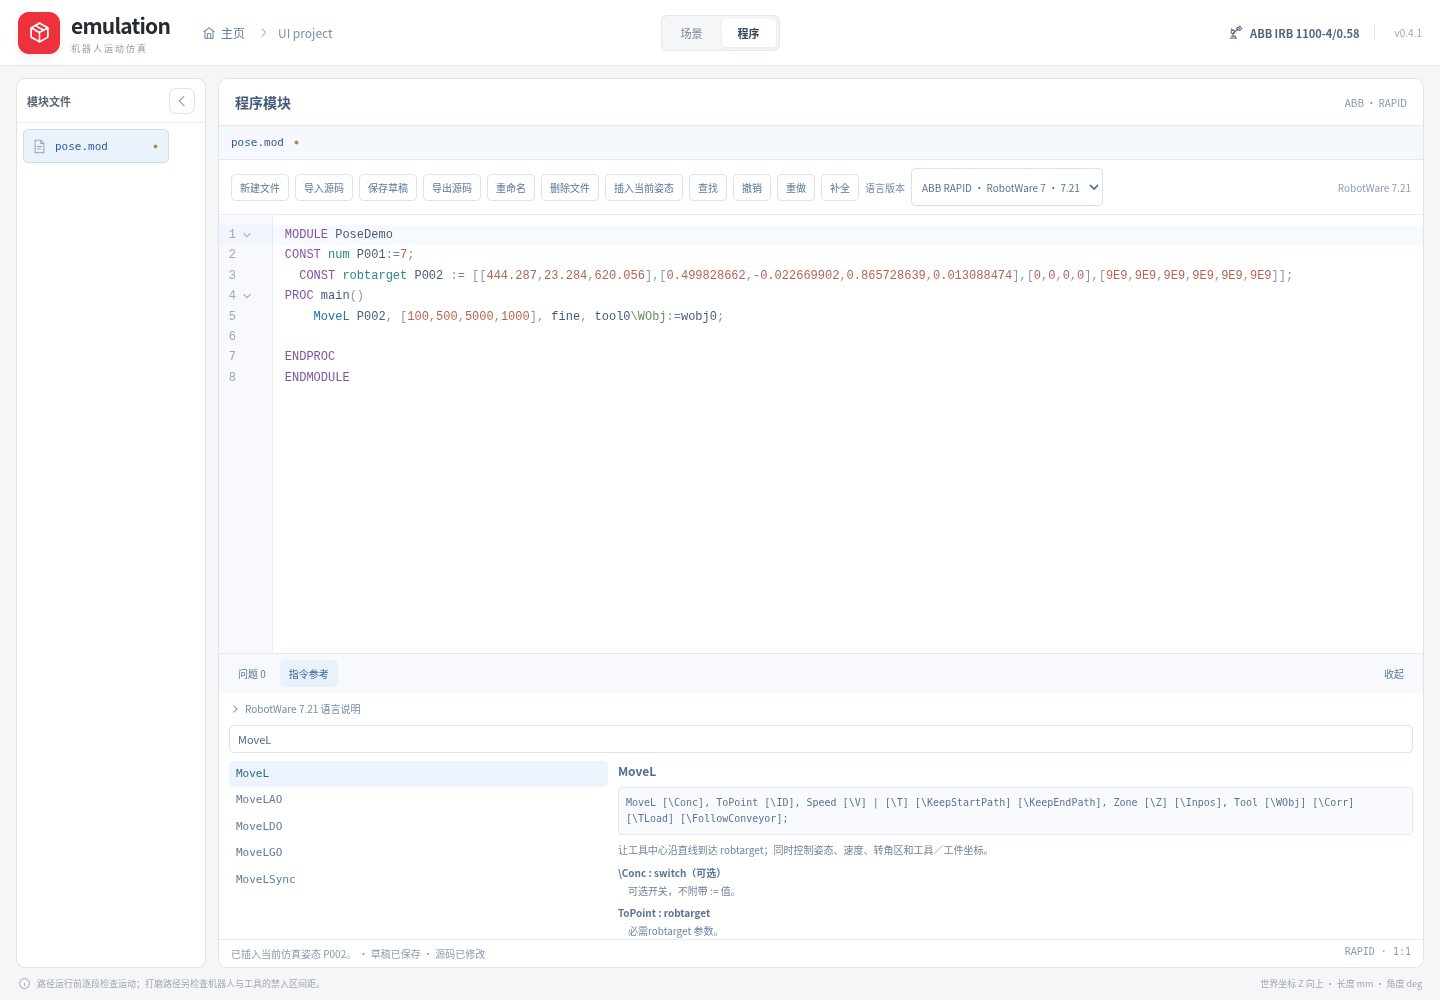
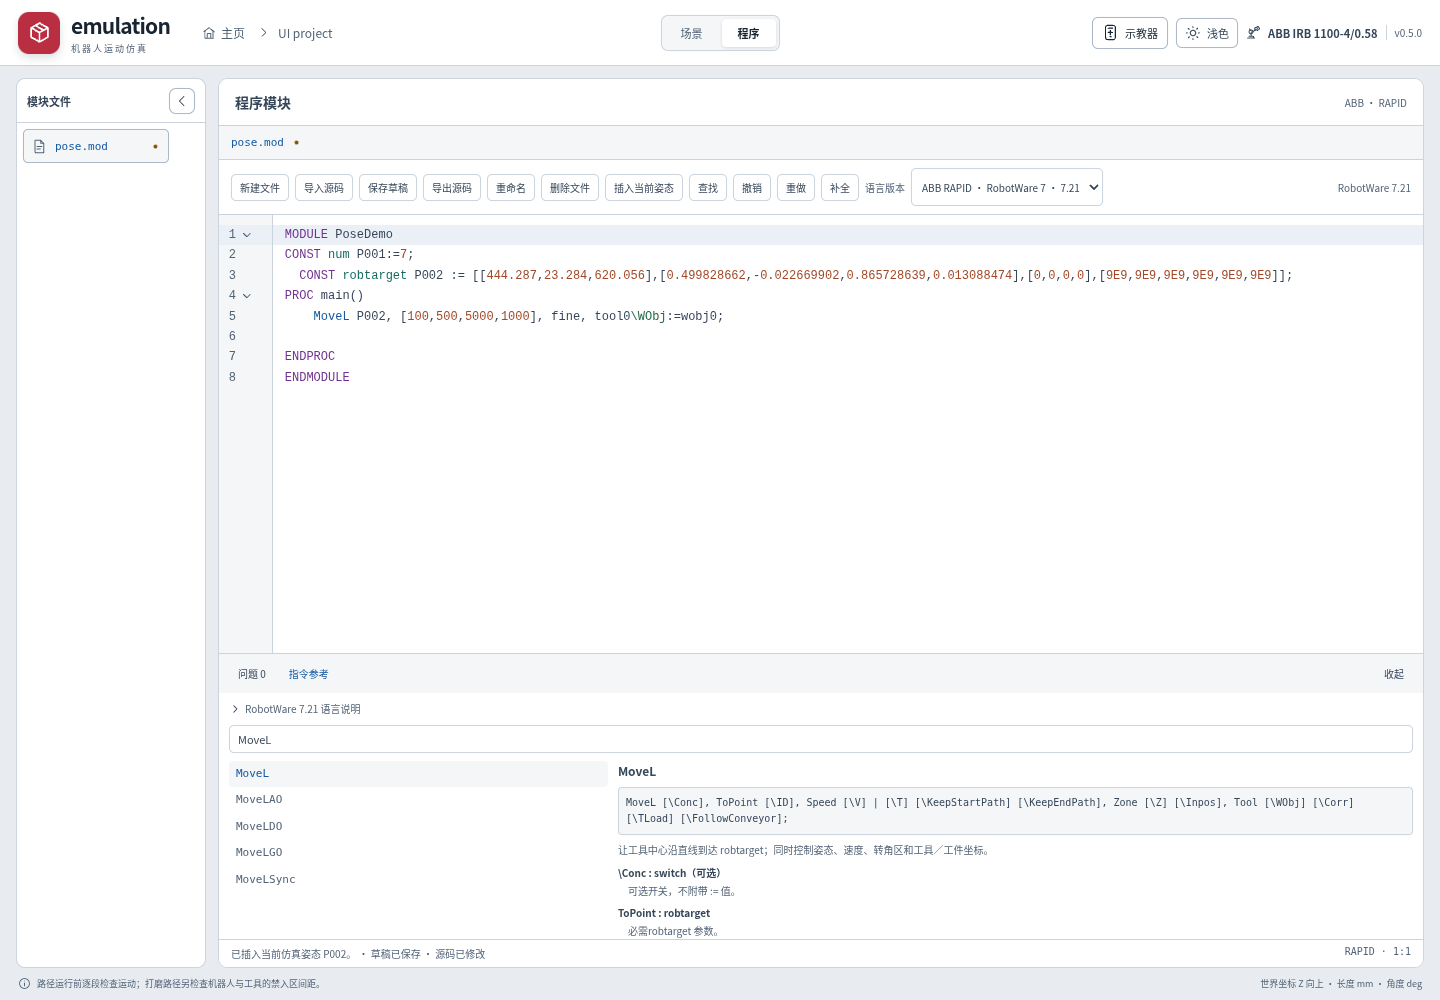
test: drive loop playback with deterministic animation frames

diff --git a/tests/ui/program-run.spec.ts b/tests/ui/program-run.spec.ts
@@ -2,7 +2,7 @@ import { expect, test, type Page } from '@playwright/test';
 import { prepareCatalogFixtures, readCatalog } from './catalog-fixtures';
 import { generateSource, openCode } from './programming-helpers';
 import type { Pose } from '../../src/robot/types';
-import { bodyCanvas, bodyJoints, bodyPose, captureCurrent, createPath, expectBodyJoints, expectNoPointMotionActions, runPathFromMenu, selectPathForPoints, observeBrowser, openScene, openWorkspace, pathObjects, pathPoints, selectPath, selectRobot, selectRobotObject, setJoint, type CapturedPoint } from './workspace-helpers';
+import { bodyCanvas, bodyJoints, bodyPose, captureCurrent, createPath, expectBodyJoints, expectNoPointMotionActions, openPathMenu, runPathFromMenu, selectPathForPoints, observeBrowser, openScene, openWorkspace, pathObjects, pathPoints, selectPath, selectRobot, selectRobotObject, setJoint, type CapturedPoint } from './workspace-helpers';
 
 test.setTimeout(120_000);
 const ready = [0, 20, -30, 0, 40, 0];
@@ -134,8 +134,22 @@ test('Loop closes from the last point to the first without replaying approach an
   const first = await recordJoint1(page, 2), second = await recordJoint1(page, 4);
   await setJoint(page, 1, 0);
   await expectBodyJoints(page, ready);
-  await run(page, true);
-  await expect(runState(page)).toHaveAttribute('data-run-phase', 'running', { timeout: 20_000 });
+  await selectPath(page, first.pathId);
+  await page.getByRole('checkbox', { name: '循环运行', exact: true }).check();
+  const runMenu = await openPathMenu(page, first.pathId, true);
+  await expect(runMenu.getByRole('menuitem', { name: '运行', exact: true })).toBeEnabled();
+  // Pause while idle: the clock's initial jump must not skip any playback.
+  // Once Run is pressed, drive actual RAF/React frames explicitly instead of
+  // requiring the emulated clock to keep up with wall time on a slow CI GPU.
+  await page.clock.pauseAt(new Date(await page.evaluate(() => Date.now()) + 10_000));
+  await startSampling(page);
+  await runMenu.getByRole('menuitem', { name: '运行', exact: true }).press('Enter');
+  await expect(runMenu).toHaveCount(0);
+  await expect(runState(page)).toHaveAttribute('data-run-path-id', first.pathId);
+  await expect.poll(async () => {
+    await page.clock.runFor(16);
+    return runState(page).getAttribute('data-run-phase');
+  }, { timeout: 20_000 }).toBe('running');
   // Keep a real UI selection while the clock drives continuous scene frames.
   // Pointer actionability can stall waiting for stable animation frames here.
   const activePath = page.locator(`[data-object-kind="path"][data-object-id="${first.pathId}"]`);
@@ -157,12 +171,15 @@ test('Loop closes from the last point to the first without replaying approach an
   await pathPoints(page, first.pathId).first().focus();
   await page.keyboard.press('Delete');
   await expect(pathPoints(page, first.pathId)).toHaveCount(2);
-  await expect.poll(async () => Number(await runState(page).getAttribute('data-run-cycle')), { timeout: 25_000 }).toBeGreaterThanOrEqual(2);
-  // The first two cycles above use wall time. Freeze only the Stop observation
-  // window: a real mouse click's actionability wait can consume this short leg.
+  // This 2-degree, 10 mm/s fixture reaches cycle 2 in about six simulated
+  // seconds. Bound virtual progress while delivering every animation frame.
+  for (let index = 0; index < 100 && Number(await runState(page).getAttribute('data-run-cycle')) < 2; index++) {
+    await page.clock.runFor(100);
+  }
+  expect(Number(await runState(page).getAttribute('data-run-cycle'))).toBeGreaterThanOrEqual(2);
+  // Keep the same paused clock through Stop; keyboard input cannot consume the
+  // short intermediate-pose window through pointer actionability waits.
   await stopButton(page).focus();
-  await page.clock.pauseAt(new Date(await page.evaluate(() => Date.now()) + 10_000));
-  await page.clock.runFor(32); // Let React and the scene both observe the clock transition.
   for (let index = 0; index < 40; index++) {
     const q = (await bodyJoints(page))[0];
     if (q > 2.5 && q < 3.5) break;
@@ -174,6 +191,9 @@ test('Loop closes from the last point to the first without replaying approach an
   await page.clock.resume();
   const repeated = (await stopSampling(page)).filter(sample => sample.phase === 'running' && sample.cycle >= 1);
   expect(repeated.length).toBeGreaterThan(0);
+  const firstCycleOrder = repeated.filter(sample => sample.cycle === 1).map(sample => sample.pointId)
+    .filter((id, index, ids) => index === 0 || id !== ids[index - 1]);
+  expect(firstCycleOrder).toEqual([first.id, second.id]);
   expect(new Set(repeated.map(sample => sample.pointId))).toEqual(new Set([first.id, second.id]));
   for (const sample of repeated) {
     expect(sample.joints[0]).toBeGreaterThanOrEqual(2 - .001);

diff --git a/history/2026-11-11-001.md b/history/2026-11-11-001.md
@@ -49,3 +49,26 @@
 - 最终手机资源重新嵌入Rust测试工具后，真实WebSocket／手机页面再测1项通过（6.6秒），覆盖实际消息、心跳失联、重新操作和关闭停止；与此前4项手机界面用例共同构成11项定向UI场景，未把两次同一网络用例重复计数。
 - 新增安装后ABB与GP7通过真实WebSocket、Tauri事件、原生Jog到界面更新的smoke代码，等待macOS／Windows正式构建执行；未提前声称已经实装验证。
 - 本次尚未收到新版本发布要求，保持当前发布v0.5.0与下载入口不变，准备英文功能提交及PR。临时最终日志：/tmp/emulation-pendant-final-unit.log、/tmp/emulation-pendant-final-build.log、/tmp/emulation-pendant-final-native-phone.log。
+
+### A5 · PR与原生验证启动
+
+- 英文提交[`253a6a4`](https://github.com/ecojust/emulation/commit/253a6a4f5c272ef33f196540087fb2984f81cbdb)已推送功能分支，创建[PR #12](https://github.com/ecojust/emulation/pull/12)，未合并／发布。
+- 同源[Check42932725440](https://github.com/ecojust/emulation/actions/runs/42932725440)和[Desktop42932725643](https://github.com/ecojust/emulation/actions/runs/42932725643)运行中。后者包含安装后实际WebSocket→Tauri事件→RustJog→ABB／GP7界面运动的新增验收；任何失败须定位修复后重验。
+
+### A6 · ARM与Windows安装后验证
+
+- Desktop42932725643中[macOS Apple Silicon job130235195626](https://github.com/ecojust/emulation/actions/runs/42932725643/job/130235195626)和[Windows x64 job130235195968](https://github.com/ecojust/emulation/actions/runs/42932725643/job/130235195968)均已完成success，源提交为253a6a4。两平台安装后新增示教器链路检查均通过；不是仅检查构建产物存在。
+- Check的数值、类型、构建步骤已通过，完整界面回归仍运行中；Intel仍在构建。本阶段保持PR开放，未合并／发布。
+
+### A7 · 完整回归中的循环计时失败
+
+- Desktop日志已取得：ARM与Windows的`pendant:abb`及`pendant:yaskawa-gp7`均记录真实套接字输入、轴移动3°、直线移动10mm、松手及断连停止。Intel在原有`bundled-model`阶段因托管显卡不能提供WebGL2失败，尚未进入示教器步骤，不能算作图形验收通过。临时原始日志：/tmp/emulation-pr12-desktop-logs.zip。
+- Check42932725440最终失败：172Rust／1496TS及生产构建通过；完整开发UI63通过、1失败、1生产专用跳过（18.2分钟）。唯一失败为既有`program-run.spec.ts`循环运行用例等待第二圈25秒超时，实际已到第一圈；后续8项生产UI因此未执行。正在定位，不将此run记为完整通过。临时原始日志：/tmp/emulation-pr12-check-logs.zip。
+- 独立review继续检查循环测试与播放时钟；root冻结源码，补跑被跳过的生产UI。后续修正须保留真实循环与中途停止验证，不能降低断言绕过失败。
+
+### A8 · 确定性循环测试与生产补验
+
+- 确认产品`runPath`／`sampleProgramRun`播放逻辑未变；原测试安装了模拟RAF时钟，却要求它在25秒真实时间内到第二圈，软件WebGL回调较慢时两种时钟失配。仅修改该测试：空闲时冻结时钟，真实键盘启动，再逐帧推进；保留循环、锁定编辑、中途停止与15帧保持断言，并增加第一圈精确点序检查，没有放宽总超时或注入产品状态。
+- 修正后的循环用例1项通过（case53秒、整体1.4分钟、exit0）。其余程序运行用例继续回归，产品源码保持253a6a4不变。
+- 生产补验8项全部通过：编辑器6项＋表面Worker1项（2.9分钟），打磨Worker1项（22秒）。生产检查生成的代码编辑器截图已人工核对，更新`docs/images/offline-programming.png`以展示新主题。
+- 临时证据：/tmp/emulation-pendant-loop-deterministic.log、/tmp/emulation-pendant-production-final.log、/tmp/emulation-pendant-production-grinding-final.log。准备提交测试修正并重新执行完整远端检查。

diff --git a/history/INDEX.md b/history/INDEX.md
@@ -4,7 +4,7 @@
 
 | 记录 | 状态 | 用户目标 | 当前结果与下一步 |
 | --- | --- | --- | --- |
-| [2026-11-11-001](2026-11-11-001.md) | in_progress | 独立扫码手机示教器、线／轴摇杆Jog与高对比度双主题 | 扫码手机示教器与双主题已实现；172 Rust／1496 TS、11项定向UI本地通过，准备PR及原生安装验证。 |
+| [2026-11-11-001](2026-11-11-001.md) | in_progress | 独立扫码手机示教器、线／轴摇杆Jog与高对比度双主题 | [PR #12](https://github.com/ecojust/emulation/pull/12)功能253a6a4已通过ARM／Windows实装、172 Rust／1496 TS；完整UI唯一循环计时失败已修正并定向通过，生产8项补验通过，准备重新执行完整检查。 |
 | [2026-11-10-012](2026-11-10-012.md) | completed | 发布表面UV路径新版本 | PR #11已合并master／e5bcd2c，v0.5.0公开为latest；149 Rust、1465 TS、56＋8 UI及ARM／Windows实装通过，5个公共资产下载校验一致。 |
 | [2026-11-10-011](2026-11-10-011.md) | completed | 保留Jog的Path右键、固定项目型号与顶部布局、导入模型及UV表面加工路径 | PR #11已合并并随v0.5.0发布；完整同源验证及公共下载校验通过，发布证据见012。 |
 | [2026-11-10-010](2026-11-10-010.md) | completed | 预览后显式更新Path点、左侧返回主页面包屑、模型下载界面 | PR #10已合并master／e9d46d5，v0.4.1公开为latest；130Rust、1381TS、49＋7UI及ARM／Windows实装通过，5个公共资产下载摘要已核验。 |
